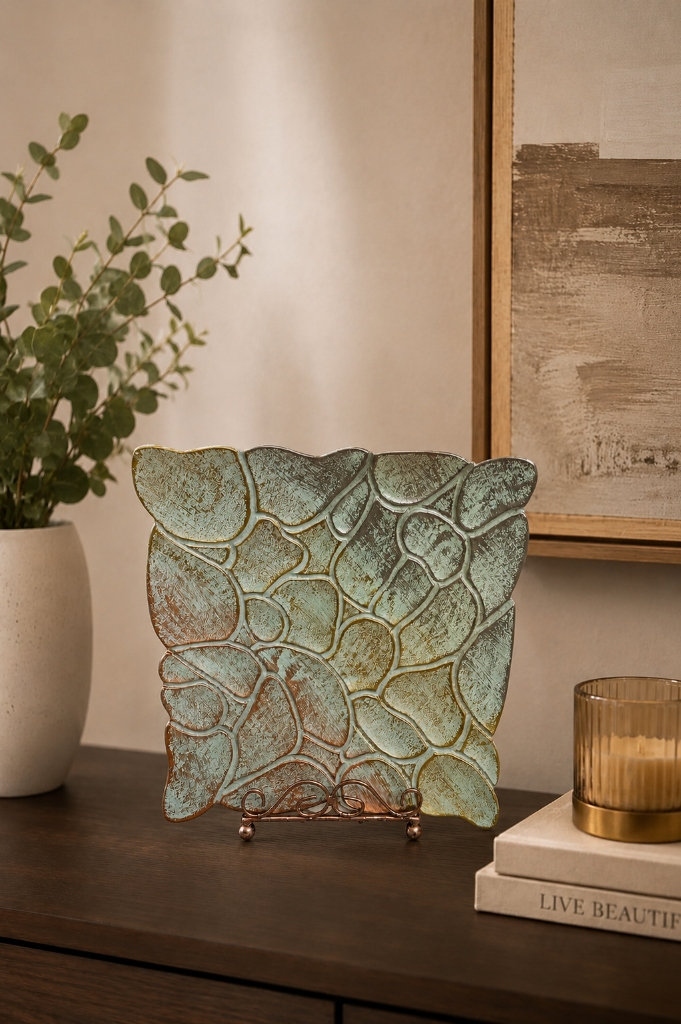
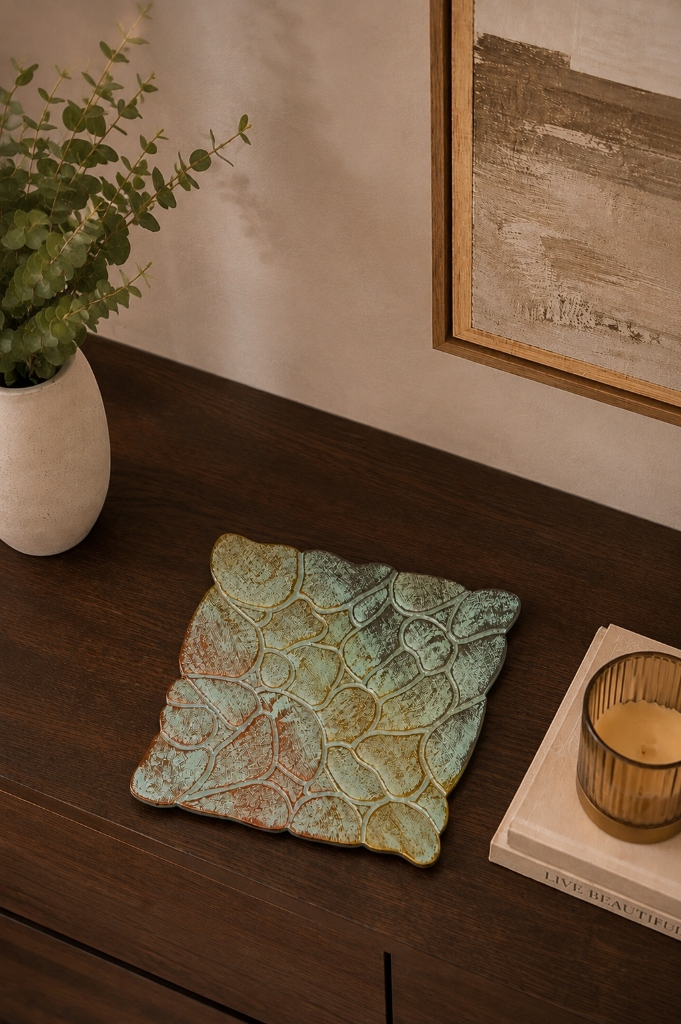
Update product lifestyle images, gallery views, and frontend/backend configurations

diff --git a/frontend/src/App.jsx b/frontend/src/App.jsx
@@ -399,9 +399,10 @@ const DEFAULT_COLLECTIONS = [
   {
     id: "12",
     title: "Handcrafted Perforated Copper & Brass Platter",
-    image: "/uploads/perforated_metal_platter.png",
+    image: "/uploads/perforated_metal_platter_aesthetic.jpg",
+    localImage: "/uploads/perforated_metal_platter_aesthetic.jpg",
     images: [
-      "/uploads/perforated_metal_platter.png",
+      "/uploads/perforated_metal_platter_aesthetic.jpg",
       "/uploads/perforated_metal_platter_specs.png"
     ],
     category: "Giftware",
@@ -416,9 +417,10 @@ const DEFAULT_COLLECTIONS = [
   {
     id: "13",
     title: "Handcrafted Square Copper & Brass Accent Platter",
-    image: "/uploads/square_copper_brass_tray.png",
+    image: "/uploads/square_copper_brass_tray_aesthetic.jpg",
+    localImage: "/uploads/square_copper_brass_tray_aesthetic.jpg",
     images: [
-      "/uploads/square_copper_brass_tray.png",
+      "/uploads/square_copper_brass_tray_aesthetic.jpg",
       "/uploads/square_copper_brass_tray_specs.png"
     ],
     category: "Giftware",
@@ -589,7 +591,8 @@ const DEFAULT_COLLECTIONS = [
     title: "Handcrafted Metallic Big Ben Clock Tower Replica",
     image: "/uploads/big_ben_clock_tower_sculpture.jpg",
     images: [
-      "/uploads/big_ben_clock_tower_sculpture.jpg"
+      "/uploads/big_ben_clock_tower_sculpture.jpg",
+      "/uploads/big_ben_clock_tower_sculpture_specs.png"
     ],
     category: "Home Décor",
     price: "₹800 / $10",
@@ -639,7 +642,8 @@ const DEFAULT_COLLECTIONS = [
     title: "Handcrafted Two-Tone Metallic Feather Sculpture",
     image: "/uploads/two_tone_metallic_feather_sculpture.png",
     images: [
-      "/uploads/two_tone_metallic_feather_sculpture.png"
+      "/uploads/two_tone_metallic_feather_sculpture.png",
+      "/uploads/two_tone_metallic_feather_sculpture_specs.png"
     ],
     category: "Home Décor",
     price: "₹850 / $10",
@@ -672,7 +676,8 @@ const DEFAULT_COLLECTIONS = [
     title: "Handcrafted Dynamic Flame Metallic Sculpture",
     image: "/uploads/abstract_flame_metallic_sculpture.jpg",
     images: [
-      "/uploads/abstract_flame_metallic_sculpture.jpg"
+      "/uploads/abstract_flame_metallic_sculpture.jpg",
+      "/uploads/abstract_flame_metallic_sculpture_specs.jpg"
     ],
     category: "Home Décor",
     price: "₹1,540 / $19",
@@ -723,10 +728,10 @@ const DEFAULT_COLLECTIONS = [
   {
     id: "31",
     title: "Handcrafted Chain-Link Border Brass Accent Tray",
-    image: "/uploads/chain_link_border_brass_tray.png",
-    localImage: "/uploads/chain_link_border_brass_tray.png",
+    image: "/uploads/chain_link_border_brass_tray_aesthetic.jpg",
+    localImage: "/uploads/chain_link_border_brass_tray_aesthetic.jpg",
     images: [
-      "/uploads/chain_link_border_brass_tray.png",
+      "/uploads/chain_link_border_brass_tray_aesthetic.jpg",
       "/uploads/chain_link_border_brass_tray_specs.png"
     ],
     category: "Hospitality",
@@ -744,7 +749,9 @@ const DEFAULT_COLLECTIONS = [
     image: "/uploads/corrugated_wave_metallic_platter.jpg",
     localImage: "/uploads/corrugated_wave_metallic_platter.jpg",
     images: [
-      "/uploads/corrugated_wave_metallic_platter.jpg"
+      "/uploads/corrugated_wave_metallic_platter.jpg",
+      "/uploads/corrugated_wave_metallic_platter_stand.jpg",
+      "/uploads/corrugated_wave_metallic_platter_specs.png"
     ],
     category: "Hospitality, Utility",
     price: "₹1,650 / $20",
@@ -820,6 +827,7 @@ const DEFAULT_COLLECTIONS = [
     localImage: "/uploads/multi_metallic_chevron_leaf_platter_aesthetic.jpg",
     images: [
       "/uploads/multi_metallic_chevron_leaf_platter_aesthetic.jpg",
+      "/uploads/multi_metallic_chevron_leaf_platter_stand.jpg",
       "/uploads/multi_metallic_chevron_leaf_platter_specs.jpg"
     ],
     category: "Hospitality",
@@ -854,10 +862,10 @@ const DEFAULT_COLLECTIONS = [
   {
     id: "40",
     title: "Handcrafted Chain-Link Border Brass Accent Tray",
-    image: "/uploads/chain_link_border_brass_tray.png",
-    localImage: "/uploads/chain_link_border_brass_tray.png",
+    image: "/uploads/chain_link_border_brass_tray_aesthetic.jpg",
+    localImage: "/uploads/chain_link_border_brass_tray_aesthetic.jpg",
     images: [
-      "/uploads/chain_link_border_brass_tray.png",
+      "/uploads/chain_link_border_brass_tray_aesthetic.jpg",
       "/uploads/chain_link_border_brass_tray_specs.png"
     ],
     category: "Utility",
@@ -934,6 +942,7 @@ const DEFAULT_COLLECTIONS = [
     localImage: "/uploads/mosaic_platter_aesthetic.jpg",
     images: [
       "/uploads/mosaic_platter_aesthetic.jpg",
+      "/uploads/mosaic_platter_stand.jpg",
       "/uploads/mosaic_platter_specs.png"
     ],
     category: "Giftware",
@@ -991,6 +1000,7 @@ const DEFAULT_COLLECTIONS = [
     localImage: "/uploads/ginkgo_leaf_platter_aesthetic.jpg",
     images: [
       "/uploads/ginkgo_leaf_platter_aesthetic.jpg",
+      "/uploads/ginkgo_leaf_platter_stand.jpg",
       "/uploads/ginkgo_leaf_platter_specs.png"
     ],
     category: "Giftware",
@@ -1048,6 +1058,7 @@ const DEFAULT_COLLECTIONS = [
     localImage: "/uploads/tri_tone_fan_platter_aesthetic.jpg",
     images: [
       "/uploads/tri_tone_fan_platter_aesthetic.jpg",
+      "/uploads/tri_tone_fan_platter_stand.jpg",
       "/uploads/tri_tone_fan_platter_specs.jpg"
     ],
     category: "Giftware",
@@ -1067,6 +1078,7 @@ const DEFAULT_COLLECTIONS = [
     localImage: "/uploads/rectangular_patina_tray_set.jpg",
     images: [
       "/uploads/rectangular_patina_tray_set.jpg",
+      "/uploads/rectangular_patina_tray_set_stand.jpg",
       "/uploads/rectangular_patina_tray_set_specs.png"
     ],
     category: "Utility",
@@ -1143,6 +1155,7 @@ const DEFAULT_COLLECTIONS = [
     localImage: "/uploads/ram_skull_wall_mount.jpg",
     images: [
       "/uploads/ram_skull_wall_mount.jpg",
+      "/uploads/ram_skull_wall_mount_close.jpg",
       "/uploads/ram_skull_wall_mount_specs.jpg"
     ],
     category: "Home Décor",
@@ -1162,6 +1175,7 @@ const DEFAULT_COLLECTIONS = [
     localImage: "/uploads/deer_handle_patina_tray_set.jpg",
     images: [
       "/uploads/deer_handle_patina_tray_set.jpg",
+      "/uploads/deer_handle_patina_tray_set_stand.jpg",
       "/uploads/deer_handle_patina_tray_set_specs.jpg"
     ],
     category: "Giftware",
@@ -3396,7 +3410,9 @@ function App() {
                             onClick={() => setModalActiveImageIndex(idx)}
                           >
                             <img src={imgUrl} alt={`View ${idx + 1}`} />
-                            <span className="thumb-label">{idx === 0 ? 'Lifestyle' : 'Dimensions'}</span>
+                            <span className="thumb-label">
+                              {imgUrl.toLowerCase().includes('spec') ? 'Dimensions' : (idx === 0 ? 'Lifestyle' : `View ${idx + 1}`)}
+                            </span>
                           </div>
                         ))}
                       </div>

diff --git a/backend/server.js b/backend/server.js
@@ -66,9 +66,10 @@ const collections = [
   {
     id: "12",
     title: "Handcrafted Perforated Copper & Brass Platter",
-    image: "/uploads/perforated_metal_platter.png",
+    image: "/uploads/perforated_metal_platter_aesthetic.jpg",
+    localImage: "/uploads/perforated_metal_platter_aesthetic.jpg",
     images: [
-      "/uploads/perforated_metal_platter.png",
+      "/uploads/perforated_metal_platter_aesthetic.jpg",
       "/uploads/perforated_metal_platter_specs.png"
     ],
     category: "Giftware",
@@ -83,9 +84,10 @@ const collections = [
   {
     id: "13",
     title: "Handcrafted Square Copper & Brass Accent Platter",
-    image: "/uploads/square_copper_brass_tray.png",
+    image: "/uploads/square_copper_brass_tray_aesthetic.jpg",
+    localImage: "/uploads/square_copper_brass_tray_aesthetic.jpg",
     images: [
-      "/uploads/square_copper_brass_tray.png",
+      "/uploads/square_copper_brass_tray_aesthetic.jpg",
       "/uploads/square_copper_brass_tray_specs.png"
     ],
     category: "Giftware",
@@ -255,7 +257,8 @@ const collections = [
     title: "Handcrafted Metallic Big Ben Clock Tower Replica",
     image: "/uploads/big_ben_clock_tower_sculpture.jpg",
     images: [
-      "/uploads/big_ben_clock_tower_sculpture.jpg"
+      "/uploads/big_ben_clock_tower_sculpture.jpg",
+      "/uploads/big_ben_clock_tower_sculpture_specs.png"
     ],
     category: "Home Décor",
     price: "₹800 / $10",
@@ -305,7 +308,8 @@ const collections = [
     title: "Handcrafted Two-Tone Metallic Feather Sculpture",
     image: "/uploads/two_tone_metallic_feather_sculpture.png",
     images: [
-      "/uploads/two_tone_metallic_feather_sculpture.png"
+      "/uploads/two_tone_metallic_feather_sculpture.png",
+      "/uploads/two_tone_metallic_feather_sculpture_specs.png"
     ],
     category: "Home Décor",
     price: "₹850 / $10",
@@ -338,7 +342,8 @@ const collections = [
     title: "Handcrafted Dynamic Flame Metallic Sculpture",
     image: "/uploads/abstract_flame_metallic_sculpture.jpg",
     images: [
-      "/uploads/abstract_flame_metallic_sculpture.jpg"
+      "/uploads/abstract_flame_metallic_sculpture.jpg",
+      "/uploads/abstract_flame_metallic_sculpture_specs.jpg"
     ],
     category: "Home Décor",
     price: "₹1,540 / $19",
@@ -387,9 +392,10 @@ const collections = [
   {
     id: "31",
     title: "Handcrafted Chain-Link Border Brass Accent Tray",
-    image: "/uploads/chain_link_border_brass_tray.png",
+    image: "/uploads/chain_link_border_brass_tray_aesthetic.jpg",
+    localImage: "/uploads/chain_link_border_brass_tray_aesthetic.jpg",
     images: [
-      "/uploads/chain_link_border_brass_tray.png",
+      "/uploads/chain_link_border_brass_tray_aesthetic.jpg",
       "/uploads/chain_link_border_brass_tray_specs.png"
     ],
     category: "Hospitality",
@@ -406,7 +412,9 @@ const collections = [
     title: "Handcrafted Corrugated Wave Metallic Platter",
     image: "/uploads/corrugated_wave_metallic_platter.jpg",
     images: [
-      "/uploads/corrugated_wave_metallic_platter.jpg"
+      "/uploads/corrugated_wave_metallic_platter.jpg",
+      "/uploads/corrugated_wave_metallic_platter_stand.jpg",
+      "/uploads/corrugated_wave_metallic_platter_specs.png"
     ],
     category: "Hospitality, Utility",
     price: "₹1,650 / $20",
@@ -510,9 +518,10 @@ const collections = [
   {
     id: "40",
     title: "Handcrafted Chain-Link Border Brass Accent Tray",
-    image: "/uploads/chain_link_border_brass_tray.png",
+    image: "/uploads/chain_link_border_brass_tray_aesthetic.jpg",
+    localImage: "/uploads/chain_link_border_brass_tray_aesthetic.jpg",
     images: [
-      "/uploads/chain_link_border_brass_tray.png",
+      "/uploads/chain_link_border_brass_tray_aesthetic.jpg",
       "/uploads/chain_link_border_brass_tray_specs.png"
     ],
     category: "Utility",
@@ -585,6 +594,7 @@ const collections = [
     image: "/uploads/mosaic_platter_aesthetic.jpg",
     images: [
       "/uploads/mosaic_platter_aesthetic.jpg",
+      "/uploads/mosaic_platter_stand.jpg",
       "/uploads/mosaic_platter_specs.png"
     ],
     category: "Giftware",
@@ -693,6 +703,7 @@ const collections = [
     image: "/uploads/tri_tone_fan_platter_aesthetic.jpg",
     images: [
       "/uploads/tri_tone_fan_platter_aesthetic.jpg",
+      "/uploads/tri_tone_fan_platter_stand.jpg",
       "/uploads/tri_tone_fan_platter_specs.jpg"
     ],
     category: "Giftware",
@@ -711,6 +722,7 @@ const collections = [
     image: "/uploads/rectangular_patina_tray_set.jpg",
     images: [
       "/uploads/rectangular_patina_tray_set.jpg",
+      "/uploads/rectangular_patina_tray_set_stand.jpg",
       "/uploads/rectangular_patina_tray_set_specs.png"
     ],
     category: "Utility",
@@ -783,6 +795,7 @@ const collections = [
     image: "/uploads/ram_skull_wall_mount.jpg",
     images: [
       "/uploads/ram_skull_wall_mount.jpg",
+      "/uploads/ram_skull_wall_mount_close.jpg",
       "/uploads/ram_skull_wall_mount_specs.jpg"
     ],
     category: "Home Décor",

diff --git a/frontend/vite.config.js b/frontend/vite.config.js
@@ -7,7 +7,7 @@ export default defineConfig({
   server: {
     port: 6291,
     host: '0.0.0.0',
-    allowedHosts: ['gifty.cyberpunk.co.in'],
+    allowedHosts: true,
     proxy: {
       '/api': {
         target: 'http://localhost:5000',
